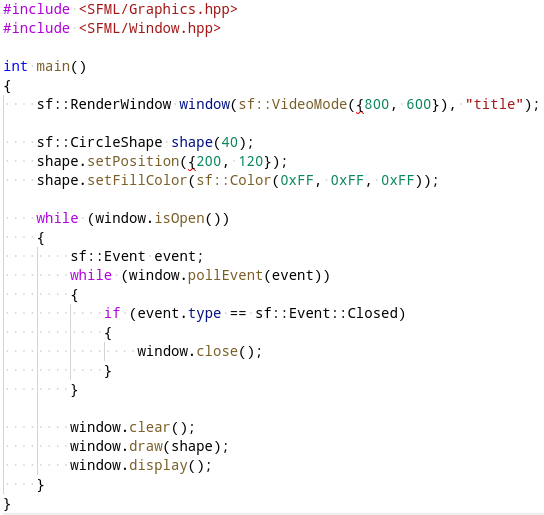
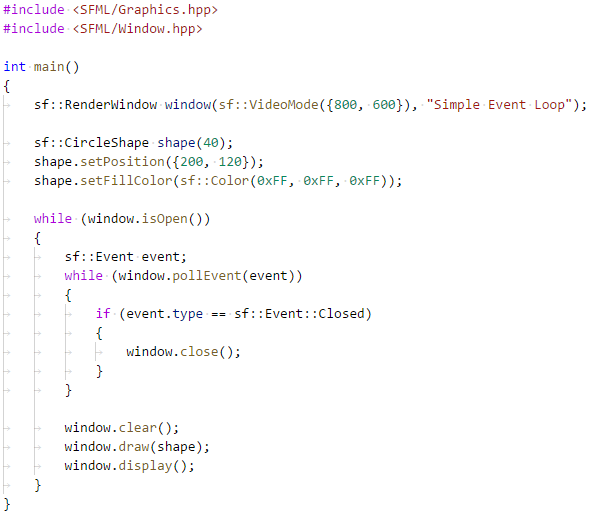
Доработки sfml.2

diff --git a/_ps1/lesson_sfml_2.md b/_ps1/lesson_sfml_2.md
@@ -277,8 +277,266 @@ int main()
 - контроллер клавиатуры присылает состояние клавиш
 - каждая программа старается получить процессорное время, чтобы выполнить свои задачи
 
-В таких условиях операционной системе приходится ловко манипулировать множеством событий и потоков данных. Например, 60 раз в секунду система собирает изображения всех окон, рисует их поверх друг друга в одну картинку рабочего стола и выводит на экран.
+В таких условиях операционной системе (ОС) приходится ловко манипулировать множеством событий и потоков данных. Например, 60 раз в секунду система собирает изображения всех окон, рисует их поверх друг друга в одну картинку рабочего стола и выводит на экран.
+
+Чтобы ОС могла выполнить свою задачу, программа должна ей помогать: вести общение с системой в режиме интерактивного диалога, реагируя на переданные окну события ввода и рисуя новые кадры со скоростью ~60 кадров в секунду.
+
+С точки зрения программиста надо написать приложение так, чтобы в нём был цикл, в котором выполняются два действия:
+
+1. обработка событий
+2. рисование нового кадра
+
+Поскольку за один кадр может прийти несколько событий, цикла будет два: один внутри другого. Вся эта схема называется циклом событий (event loop).
+
+## Создаём приложение с event loop
+
+Откройте файл `sfml.2\CMakeLists.txt`, добавьте строку `add_subdirectory(01)`, чтобы он выглядел так:
+
+```cmake
+# Минимальная версия CMake: 3.8
+cmake_minimum_required(VERSION 3.8 FATAL_ERROR)
+
+# Имя проекта: sfml-lab-2
+project(sfml-lab-2)
+
+# Каждый подкаталог содержит CMakeLists.txt
+add_subdirectory(00)
+add_subdirectory(01)
+```
+
+Создайте в каталоге `sfml.2` подкаталог `01`, и создайте в нём файлы `01\CMakeLists.txt`, `01\main.cpp`.
+
+Перепишите в файл `sfml1.2\01\CMakeLists.txt` следующий скрипт:
+
+```cmake
+add_executable(01 main.cpp)
+
+set(SFML_STATIC_LIBRARIES TRUE)
+
+find_package(Freetype REQUIRED)
+find_package(JPEG REQUIRED)
+find_package(SFML 2 COMPONENTS window graphics system REQUIRED)
+
+target_include_directories(01 PRIVATE ${SFML_INCLUDE_DIR})
+target_compile_features(01 PUBLIC cxx_std_17)
+target_compile_definitions(01 PRIVATE SFML_STATIC)
+
+target_link_libraries(01 ${SFML_LIBRARIES} ${SFML_DEPENDENCIES})
+```
+
+Теперь перепишите код в файл `sfml1.2\01\main.cpp`:
 
 ![Код](img/code/sfml2_v1.png)
 
+Соберите проект через CMake и запустите `01\01.exe`. Посмотрите на результат. Попробуйте сделать скриншот окна. Закройте окно, нажав на кнопку "закрыть" (крест в углу окна).
+
 ![Код](img/samples/sfml2_v1.png)
+
+## Добавляем движение
+
+Цикл событий выполняется постоянно, и непрерывно отправляет операционной системе новые кадры — это происходит при вызове `window.display()`. Для начала мы попробуем на каждом шаге цикла прибавлять значение к координате x позиции круга. Добавьте этот код перед вызовом `window.clear()`:
+
+```cpp
+sf::Vector2f position = shape.getPosition();
+position.x += 0.5;
+shape.setPosition(position);
+```
+
+Соберите программу через CMake и запустите её. Вы увидите, что шар быстро улетает в строну, причём на разных машинах он может лететь с разной скоростью.
+
+Почему так происходит? Потому мы не учли промежутки времени: прибавлять на каждом кадре 0.5px нельзя, если мы не знаем число кадром или если оно может меняться.
+
+Чтобы получить изменение местоположения численным методом, мы должны умножить текущую скорость на длину интервала времени. Чтобы это осознать, представьте себе разгоняющийся автомобиль, который вы фотографируете каждые 0.3 секунды. Если совместить фотографии, автомобиль будет выглядеть примерно так:
+
+![Иллюстрация](img/fig/moving_car.png)
+
+Если в программе мы будем каждые 0.3 секунды прибавлять текущую скорость, умноженную на время, мы получим правильное перемещение с предсказуемой скоростью!
+
+Для замера времени воспользуемся классом [sf::Clock](https://www.sfml-dev.org/documentation/2.4.2/classsf_1_1Clock.php). Он имеет метод `restart()`, который перезапускает часы и возвращает прошедшее с предыдущего перезапуска число секунд, хранимое в типе данных `sf::Time`. Получить число секунд в виде `float` можно вызовом метода `asSeconds()`. Доработайте код:
+
+![Иллюстрация](img/code/sfml2_v2.png)
+
+Соберите и запустите программу. Двигается ли шарик плавно? Совпадает ли на ваш взгляд его скорость с заданной скоростью?
+
+## Воспользуемся векторной алгеброй
+
+Библиотека SFML предоставляет готовые средства для работы с векторами вместо обычных значений. В частности, класс [sf::Vector2f](https://www.sfml-dev.org/documentation/2.4.2/classsf_1_1Vector2.php) поддерживает привычные арифметические операции сложения, умножения, деления и вычитания - как с другими векторами, так и с целыми числами. Мы воспользуемся этим и будем представлять скорость не в виде числа, а в виде вектора. Перепишите код:
+
+```cpp
+#include <SFML/Graphics.hpp>
+#include <SFML/Window.hpp>
+
+int main()
+{
+    sf::RenderWindow window(sf::VideoMode({ 800, 600 }), "Moving Ball");
+    sf::Clock clock;
+
+    sf::CircleShape shape(40);
+    shape.setPosition({ 200, 120 });
+    shape.setFillColor(sf::Color(0xFF, 0xFF, 0xFF));
+
+    while (window.isOpen())
+    {
+        sf::Event event;
+        while (window.pollEvent(event))
+        {
+            if (event.type == sf::Event::Closed)
+            {
+                window.close();
+            }
+        }
+
+        const sf::Vector2f speed = { 50.f, 15.f };
+        const float deltaTime = clock.restart().asSeconds();
+        sf::Vector2f position = shape.getPosition();
+        position += speed * deltaTime;
+        shape.setPosition(position);
+
+        window.clear();
+        window.draw(shape);
+        window.display();
+    }
+}
+```
+
+Соберите приложение и запустите, оно должно работать так же (только скорость теперь будет векторной величиной).
+
+## Добавляем отталкивание от стенок
+
+Добавлять отталкивание мы будем в полном сооствествии с подходом "Игровой Цикл" (Game Loop). Он расширяет понятие цикла событий, и схематически выглядит так:
+
+![Иллюстрация](img/fig/game_loop.png)
+
+Чтобы шаг отталкивался от стенок, мы добавим серию проверок через if:
+
+```cpp
+#include <SFML/Graphics.hpp>
+#include <SFML/System.hpp>
+#include <SFML/Window.hpp>
+
+int main()
+{
+    constexpr unsigned WINDOW_WIDTH = 800;
+    constexpr unsigned WINDOW_HEIGHT = 600;
+    constexpr float BALL_SIZE = 40;
+
+    sf::RenderWindow window(sf::VideoMode({ WINDOW_WIDTH, WINDOW_HEIGHT }), "Bouncing Ball");
+    sf::Clock clock;
+
+    sf::CircleShape shape(BALL_SIZE);
+    shape.setPosition({ 200, 120 });
+    shape.setFillColor(sf::Color(0xFF, 0xFF, 0xFF));
+
+    sf::Vector2f speed = { 100.f, 100.f };
+
+    while (window.isOpen())
+    {
+        // Обработка событий
+        sf::Event event;
+        while (window.pollEvent(event))
+        {
+            if (event.type == sf::Event::Closed)
+            {
+                window.close();
+            }
+        }
+
+        // Обновление состояния
+        const float dt = clock.restart().asSeconds();
+
+        sf::Vector2f position = shape.getPosition();
+        position += speed * dt;
+
+        if ((position.x + 2 * BALL_SIZE >= WINDOW_WIDTH) && (speed.x > 0))
+        {
+            speed.x = -speed.x;
+        }
+        if ((position.x < 0) && (speed.x < 0))
+        {
+            speed.x = -speed.x;
+        }
+        if ((position.y + 2 * BALL_SIZE >= WINDOW_HEIGHT) && (speed.y > 0))
+        {
+            speed.y = -speed.y;
+        }
+        if ((position.y < 0) && (speed.y < 0))
+        {
+            speed.y = -speed.y;
+        }
+
+        shape.setPosition(position);
+
+        // Рисование текущего состояния
+        window.clear();
+        window.draw(shape);
+        window.display();
+    }
+}
+```
+
+## Волновое движение
+
+Создайте в каталоге `sfml.2` подкаталог `02`, в нём создайте `CMakeLists.txt` аналогично предыдущим упражениям. Создайте в каталоге `02` файл `main.cpp`, далее мы будем работать в нём.
+
+Мы нарисуем шар, движущийся по плавной траектории. Для этого воспользуемся тригонометрическими функциями: легко заметить, что их графики плавные, и движение по такой траектории будет приятно глазу:
+
+![Иллюстрация](img/fig/sinusoid.png)
+
+В C++ тригонометрические функции доступны в заголовке [cmath](http://en.cppreference.com/w/cpp/header/cmath) под именами `std::sin` и `std::cos`. Перепишите следующий код:
+
+```cpp
+#include <SFML/Graphics.hpp>
+#include <SFML/System.hpp>
+#include <SFML/Window.hpp>
+#include <cmath>
+
+constexpr unsigned WINDOW_WIDTH = 800;
+constexpr unsigned WINDOW_HEIGHT = 600;
+
+int main()
+{
+    constexpr float BALL_SIZE = 40;
+
+    sf::RenderWindow window(sf::VideoMode({ WINDOW_WIDTH, WINDOW_HEIGHT }), "Wave Moving Ball");
+    sf::Clock clock;
+
+    const sf::Vector2f position1 = { 10, 250 };
+    const sf::Vector2f position2 = { 10, 350 };
+
+    sf::CircleShape ball(BALL_SIZE);
+    ball.setFillColor(sf::Color(0xFF, 0xFF, 0xFF));
+
+    while (window.isOpen())
+    {
+        sf::Event event;
+        while (window.pollEvent(event))
+        {
+            if (event.type == sf::Event::Closed)
+            {
+                window.close();
+            }
+        }
+
+        constexpr float speedX = 100.f;
+        constexpr float amplitudeY = 80.f;
+        constexpr float periodY = 2;
+
+        const float time = clock.getElapsedTime().asSeconds();
+        const float x = speedX * time;
+        const float wavePhase = time * float(2 * M_PI);
+        const float y = amplitudeY * std::sin(wavePhase / periodY);
+        const sf::Vector2f offset = { x, y };
+
+        ball.setPosition(position1 + offset);
+
+        window.clear();
+        window.draw(ball);
+        window.display();
+    }
+}
+```
+
+## Задание sfml2.1: волновое движение с отталкиванием
+
+1. Создайте в каталоге `sfml.2` подкаталог `sfml2.1`, в нём создайте `CMakeLists.txt` аналогично предыдущим упражениям
+2. Создайте в каталоге `sfml2.1` файл `main.cpp` и в нём совместите волновое движение шарика с отталкиванием от стенок.
